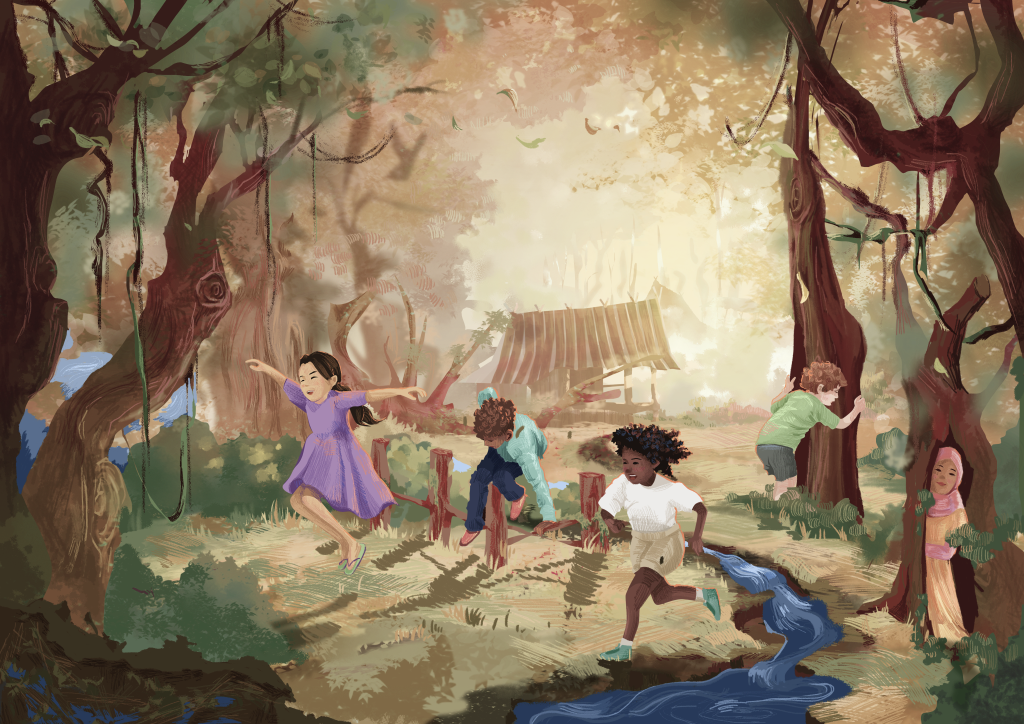
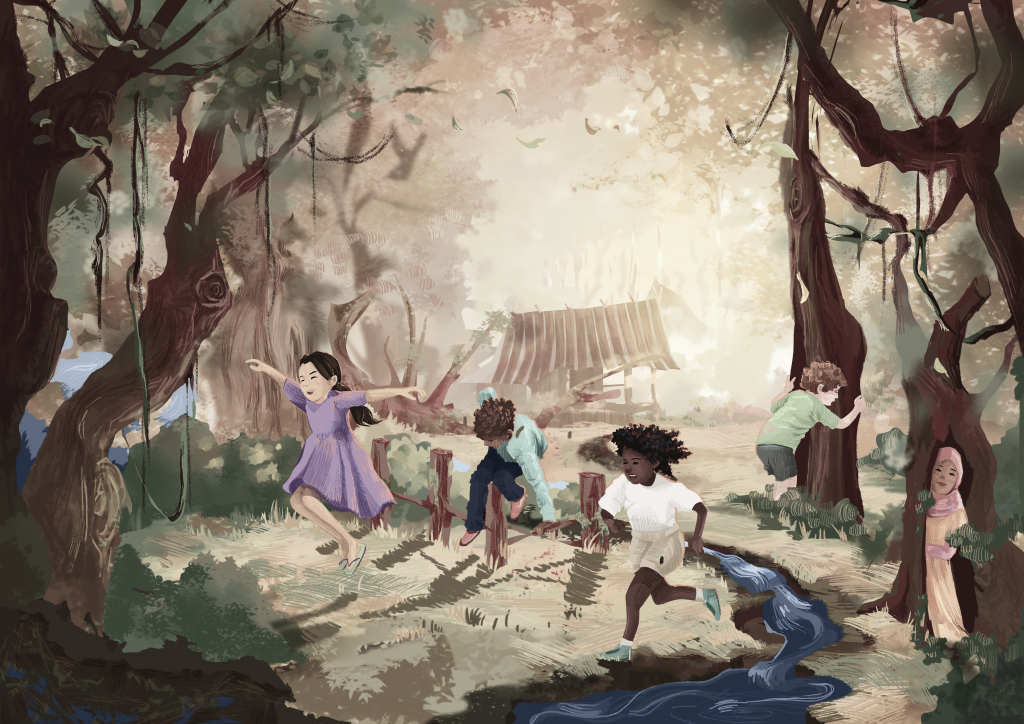
readjust sizing of following scenes (5-15) to ensure different browser size doesn't break the transition

diff --git a/script.js b/script.js
@@ -12,6 +12,13 @@
         }, {});
 
         const SCENE_MS = 1200;
+        const designWidth = 1440;
+        const designHeight = 1018;
+        const cameraKeyframes = {
+            6: [-1, -980, 1.777], 7: [-1000, -980, 1.777], 8: [-673, -170, 1.777],
+            9: [-1462, -363, 2.562], 10: [-1629, -751, 2.199], 11: [-1629, -751, 2.199],
+            12: [-116, -1012, 2.16], 13: [-116, -1738, 2.874], 14: [-1000, -233, 2.874], 15: [-36, 0, 1.5]
+        };
         const reducedMotion = window.matchMedia('(prefers-reduced-motion: reduce)');
         let typewriterRun = 0;
         const fireSound = document.getElementById('fire-sound');
@@ -35,7 +42,8 @@
             if (!fireSound) return;
             if (scene >= 4) {
                 fireSound.volume = fireSound.volume || 0;
-                fireSound.play().then(() => fadeFireSound(1)).catch(() => {});
+                const playRequest = fireSound.play();
+                if (playRequest) playRequest.then(() => fadeFireSound(1)).catch((error) => console.warn('Fire sound could not start:', error));
             } else if (currentScene >= 4 && animate) {
                 fadeFireSound(0);
                 window.setTimeout(() => {
@@ -85,6 +93,37 @@
             if (pageId === 'home-page') window.scrollTo(0, 0);
         };
 
+        const applyCamera = (scene, immediate = false) => {
+            const frame = cameraKeyframes[scene];
+            const camera = document.querySelector('.story-camera');
+            if (!frame || !camera) {
+                camera?.style.removeProperty('--cam-x');
+                camera?.style.removeProperty('--cam-y');
+                camera?.style.removeProperty('--cam-s');
+                return;
+            }
+            const scale = Math.max(innerWidth / designWidth, innerHeight / designHeight);
+            const offsetX = (innerWidth - designWidth * scale) / 2;
+            const offsetY = (innerHeight - designHeight * scale) / 2;
+            const [x, y, s] = frame;
+            const scaled = s * scale;
+            const tx = Math.max(innerWidth - designWidth * scaled, Math.min(0, x * scale + offsetX));
+            const ty = Math.max(innerHeight - designHeight * scaled, Math.min(0, y * scale + offsetY));
+            if (immediate) {
+                camera.classList.add('is-resizing');
+                requestAnimationFrame(() => requestAnimationFrame(() => camera.classList.remove('is-resizing')));
+            }
+            camera.style.setProperty('--cam-x', `${tx}px`);
+            camera.style.setProperty('--cam-y', `${ty}px`);
+            camera.style.setProperty('--cam-s', scaled);
+        };
+
+        let resizeFrame = 0;
+        window.addEventListener('resize', () => {
+            cancelAnimationFrame(resizeFrame);
+            resizeFrame = requestAnimationFrame(() => applyCamera(currentScene, true));
+        });
+
         const setScene = (scene, pushHistory = true, animate = true, preserveScroll = window.scrollY) => {
             if (scene === currentScene && story.classList.contains('is-active') && animate) return;
             const previousScene = currentScene;
@@ -101,6 +140,7 @@
                 copy.textContent = '';
             });
             currentScene = scene;
+            applyCamera(scene);
             updateFireSound(scene, animate);
             if ((scene < 5 || isZoomForward || isZoomBack) && animate && !reducedMotion.matches) {
                 const run = ++typewriterRun;
@@ -165,6 +205,17 @@
                 }, SCENE_MS + 100);
             }
         };
+
+        const startFireSoundFromGesture = () => {
+            if (currentScene < 4 || !fireSound) return;
+            fireSound.volume = fireSound.volume || 0;
+            const playRequest = fireSound.play();
+            if (playRequest) {
+                playRequest.then(() => fadeFireSound(1)).catch((error) => console.warn('Fire sound could not start:', error));
+            }
+        };
+
+        document.addEventListener('pointerdown', startFireSoundFromGesture);
 
         document.querySelector('[data-go-back]')?.addEventListener('click', () => {
             if (currentScene > 1 && !isAnimating) {

diff --git a/styles.css b/styles.css
@@ -494,13 +494,34 @@
             object-position: center;
         }
 
+        body.story-scene-6 .story-world,
+        body.story-scene-7 .story-world,
+        body.story-scene-8 .story-world,
+        body.story-scene-9 .story-world,
+        body.story-scene-10 .story-world,
+        body.story-scene-11 .story-world,
+        body.story-scene-12 .story-world,
+        body.story-scene-13 .story-world,
+        body.story-scene-14 .story-world,
+        body.story-scene-15 .story-world {
+            position: absolute;
+            inset: auto;
+            width: 1440px;
+            height: 1018px;
+            object-fit: fill;
+            object-position: 0 0;
+        }
+
         body.story-transitioning.story-full-motion .story-camera,
         body.zoom-4-5 .story-camera,
         body.zoom-5-4 .story-camera {
             transition: transform var(--scene-ms) cubic-bezier(0.85, 0, 0.15, 1);
         }
 
-        body.story-scene-5 .story-camera,
+        body.story-scene-5 .story-camera {
+            transform: translate(0px, 0px) scale(1.005);
+        }
+
         body.story-scene-6 .story-camera,
         body.story-scene-7 .story-camera,
         body.story-scene-8 .story-camera,
@@ -511,19 +532,8 @@
         body.story-scene-13 .story-camera,
         body.story-scene-14 .story-camera,
         body.story-scene-15 .story-camera {
-            transform: translate(0px, 0px) scale(1.005);
+            transform: translate(var(--cam-x, 0px), var(--cam-y, 0px)) scale(var(--cam-s, 1));
         }
-
-        body.story-scene-6 .story-camera { transform: translate(-1px, -980px) scale(1.777); }
-        body.story-scene-7 .story-camera { transform: translate(-1000px, -980px) scale(1.777); }
-        body.story-scene-8 .story-camera { transform: translate(-673px, -170px) scale(1.777); }
-        body.story-scene-9 .story-camera { transform: translate(-1462px, -363px) scale(2.562); }
-        body.story-scene-10 .story-camera,
-        body.story-scene-11 .story-camera { transform: translate(-1629px, -751px) scale(2.199); }
-        body.story-scene-12 .story-camera { transform: translate(-116px, -1012px) scale(2.16); }
-        body.story-scene-13 .story-camera { transform: translate(-116px, -1738px) scale(2.874); }
-        body.story-scene-15 .story-camera { transform: translate(-36px, 0px) scale(1.5); }
-        body.story-scene-14 .story-camera { transform: translate(-1000px, -233px) scale(2.874); }
 
         body.story-scene-13 .story-world,
         body.story-scene-14 .story-world,
@@ -627,6 +637,31 @@
             height: 830px;
             object-fit: cover;
             box-shadow: 16.894px 67.578px 33.789px rgba(0, 0, 0, 0.25);
+        }
+
+        body.story-scene-1 .story-art,
+        body.story-scene-2 .story-art,
+        body.story-scene-3 .story-art,
+        body.story-scene-4 .story-art {
+            z-index: 1;
+        }
+
+        body.story-scene-1 .story-frame,
+        body.story-scene-2 .story-frame,
+        body.story-scene-3 .story-frame,
+        body.story-scene-4 .story-frame {
+            z-index: 2;
+        }
+
+        body.story-scene-4 .story-art-4 {
+            box-shadow: 0 0 37px 49px rgba(255, 81, 0, 0.51);
+        }
+
+        body.story-scene-1 .story-art,
+        body.story-scene-2 .story-art,
+        body.story-scene-3 .story-art,
+        body.story-scene-4 .story-art {
+            will-change: opacity, transform;
         }
 
         .story-frame {
@@ -769,6 +804,10 @@
             display: none;
         }
 
+        .story-camera.is-resizing {
+            transition: none !important;
+        }
+
         body.story-transitioning .story-camera,
         body.story-transitioning .burn-layer,
         body.story-transitioning .story-copy,
@@ -831,6 +870,10 @@
         body.story-transitioning .story-art,
         body.story-transitioning .story-frame {
             transition: opacity var(--scene-ms) cubic-bezier(0.85, 0, 0.15, 1);
+        }
+
+        body.story-scene-4.story-transitioning .story-art-4 {
+            transition-duration: 2000ms;
         }
 
         body[class*="story-scene-"] .story-art.is-current,
